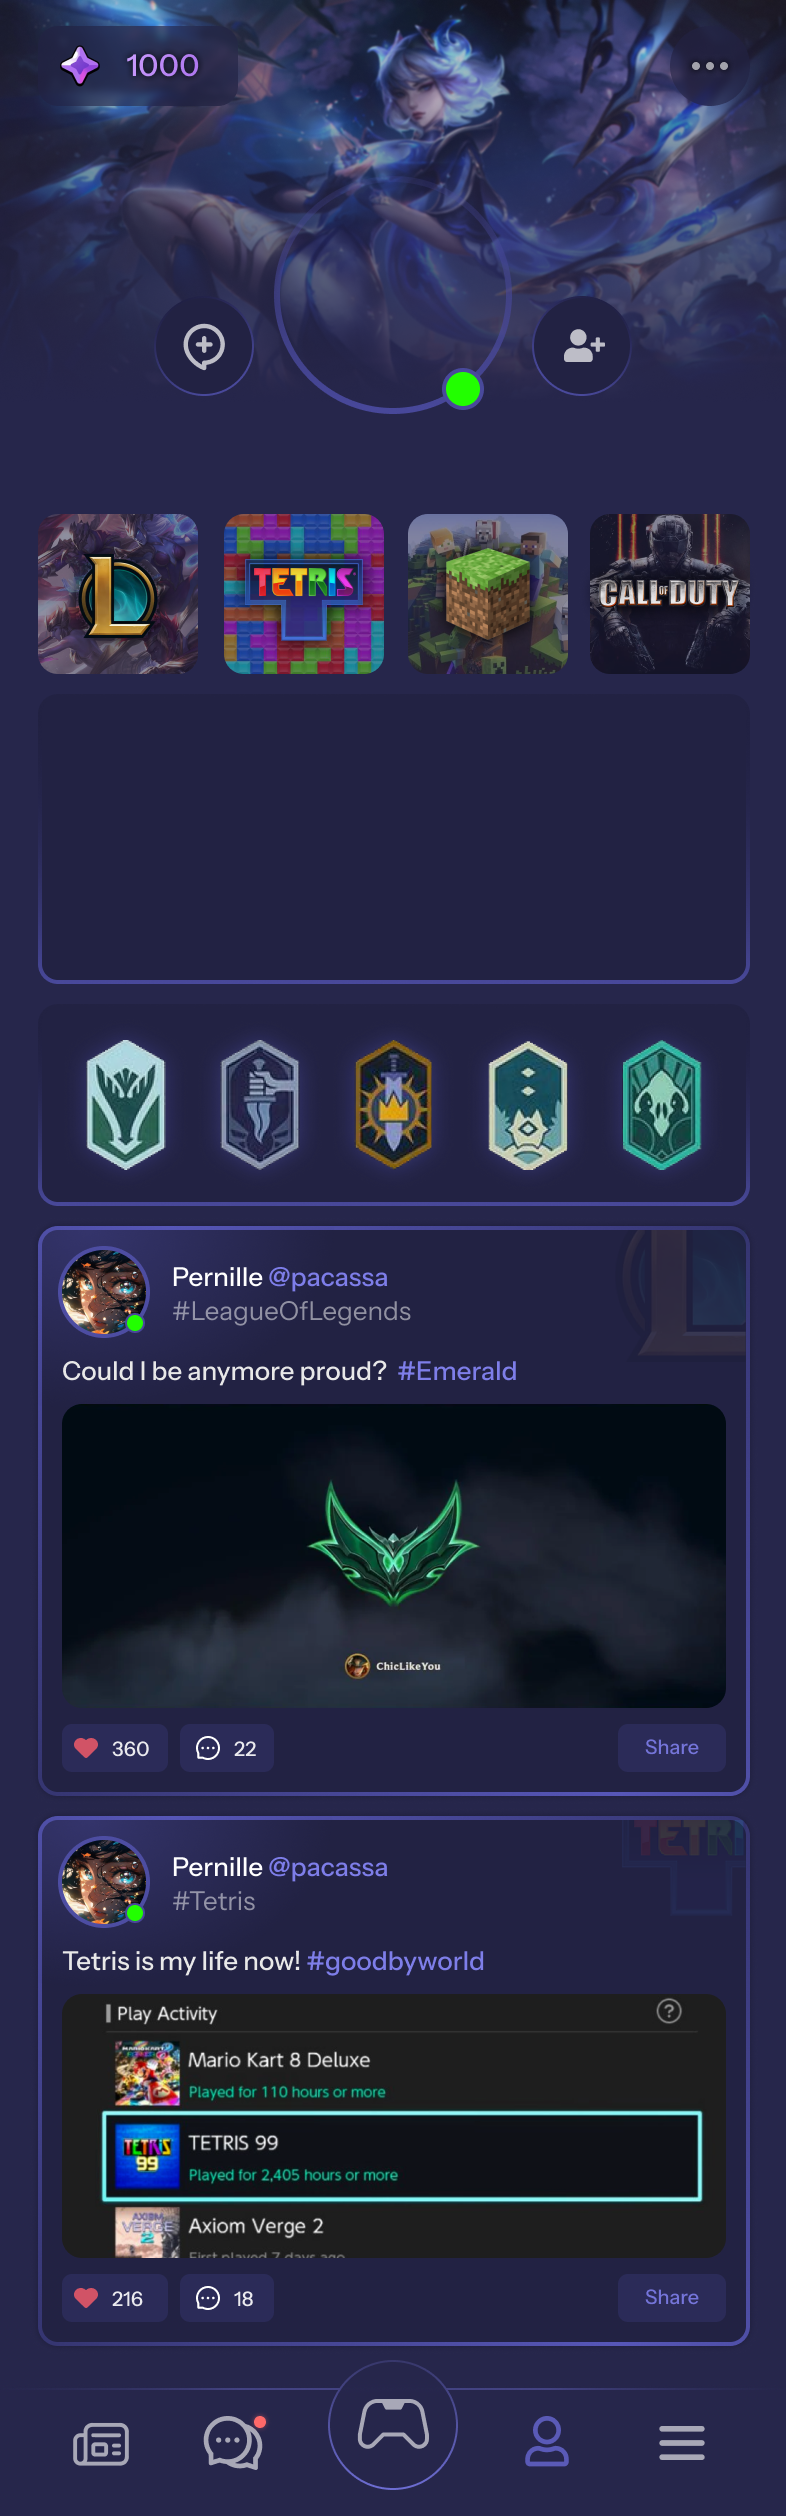
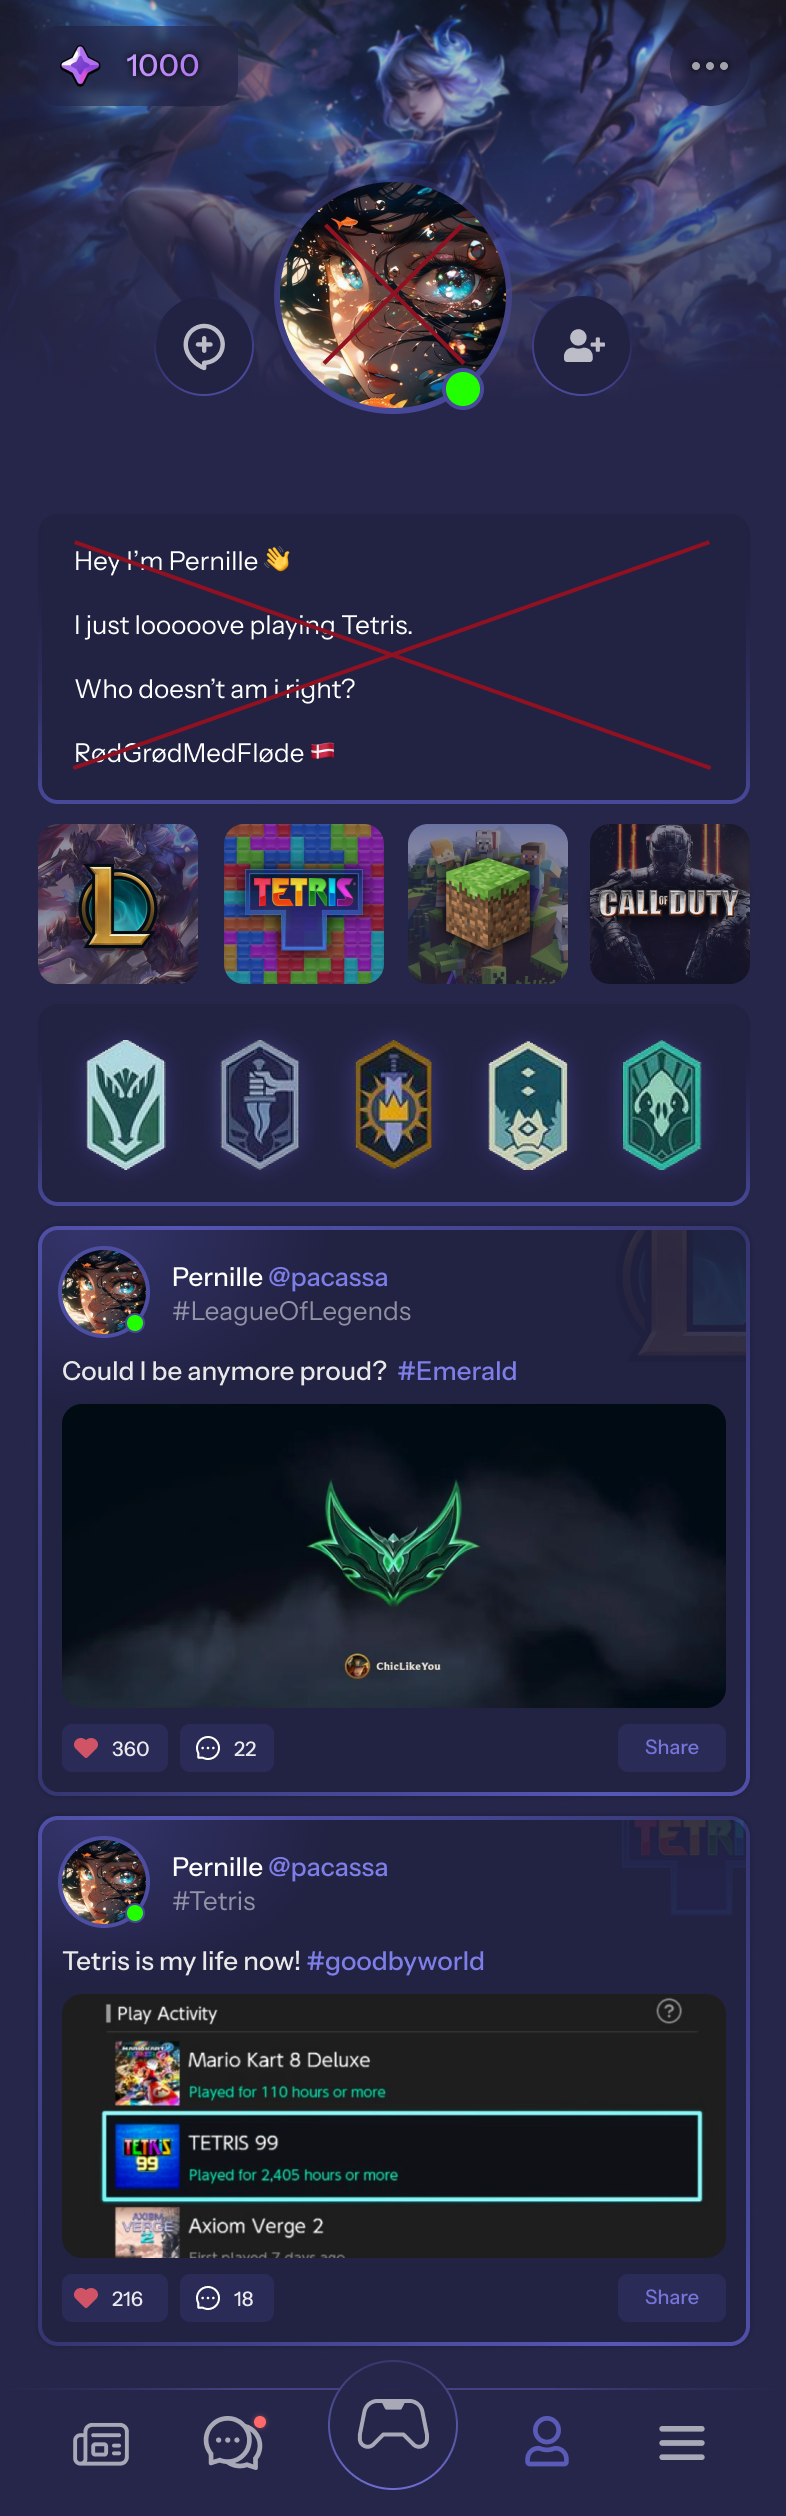
Username bliver vist rigtigt inde på profile og kan ændres

Changed region(s): [[0.0305, 0.062, 0.9466, 0.403], [0.5191, 0.31, 0.9771, 0.403], [0.9466, 0.279, 0.9771, 0.31]]

diff --git a/views/pages/profile-customize-script.js b/views/pages/profile-customize-script.js
@@ -1,0 +1,55 @@
+document.addEventListener("DOMContentLoaded", function () {
+    const profileImage = document.getElementById("profileImage");
+    const uploadProfileImage = document.getElementById("uploadProfileImage");
+
+    const bannerImage = document.getElementById("bannerImage");
+    const uploadBannerImage = document.getElementById("uploadBannerImage");
+
+    // Når brugeren vælger et nyt profilbillede
+    uploadProfileImage.addEventListener("change", function () {
+        const file = this.files[0];
+        if (file) {
+            const reader = new FileReader();
+            reader.onload = function (e) {
+                profileImage.src = e.target.result;
+            };
+            reader.readAsDataURL(file); // Laver billedet om til data-URL
+        }
+    });
+
+    // Når brugeren vælger et nyt bannerbillede
+    uploadBannerImage.addEventListener("change", function () {
+        const file = this.files[0];
+        if (file) {
+            const reader = new FileReader();
+            reader.onload = function (e) {
+                bannerImage.src = e.target.result;
+            };
+            reader.readAsDataURL(file);
+        }
+    });
+
+    const username = localStorage.getItem('loggedInUser');
+
+    if (username) {
+
+        const nameDiv = document.getElementById('display-name');
+        const tagDiv = document.getElementById('display-tag');
+
+        // Sæt brugernavn og tag
+        if (nameDiv) {
+            nameDiv.textContent = username;
+        }
+
+        if (tagDiv) {
+            tagDiv.textContent = `@${username}1425`;
+        }
+    }
+});
+
+function saveProfileChanges() {
+    const username = document.getElementById('display-name').textContent;
+
+    // Gem i localStorage
+    localStorage.setItem('loggedInUser', username);
+}

diff --git a/views/pages/profile-customize.html b/views/pages/profile-customize.html
@@ -7,6 +7,8 @@
     <link rel="stylesheet" href="style.css">
 </head>
 <body>
+    <script src="profile-customize-script.js"></script>
+
     <div class="phone">
         <div class="content">
           <img src="../Images/Change profile.png" alt="Terms" style="display:block; width:100%; height:auto;">
@@ -29,15 +31,14 @@
           <input type="file" id="uploadBannerImage" accept="image/*" style="display: none;" />
           <img onclick="document.getElementById('uploadBannerImage').click()" src="../Images/profile-banner.png" alt="Profile Banner" id="bannerImage" class="profile-banner" style="top: 555px; right: -60px;"/>
 
-          <div class="text" contenteditable="true" style="top: 319px; right: -5px;">Pernille</div>
+          <div class="text" id="display-name" contenteditable="true" style="top: 319px; right: -5px;">Pernille</div>
 
-          <div class="text" contenteditable="true" style="top: 409px; right: -5px;">pacassa</div>
+          <div class="text" id="display-tag" contenteditable="true" style="top: 409px; right: -5px;">pacassa</div>
 
           <div class="bio" contenteditable="true" style="top: 705px; right: -112.5px;">pacassa</div>
           
-          <button class="my-button" onclick="window.location.href='profile.html';" style="top: 879px; right: -25px; width: 220px; height: 60px;"></button>
+          <button class="my-button" onclick="saveProfileChanges(); window.location.href='profile.html';" style="top: 879px; right: -25px; width: 220px; height: 60px;"></button>
         </div>
       </div>
-    <script src="code.js"></script>
 </body>
 </html>

diff --git a/views/pages/profile.html b/views/pages/profile.html
@@ -7,9 +7,25 @@
     <link rel="stylesheet" href="style.css">
 </head>
 <body>
+    <script src="profile-script.js"></script>
+
     <div class="phone">
         <div class="content">
           <img src="../Images/Profile3.png" alt="Terms" style="display:block; width:100%; height:auto;">
+
+          <h2 id="profile-name" style="
+              position: absolute;
+              top: 16.5%;
+              left: 50%;
+              transform: translateX(-50%);
+              font-weight: normal;
+              width: 80%;
+              text-align: center;
+              color: white;
+              font-size: 17px;
+              z-index: 3;
+              font-family: Arial, sans-serif;">
+          </h2>
 
           <div class="menubar-container">
             <img src="../Images/menubar.png" alt="Menubar" class="menubar-image">       
@@ -21,6 +37,5 @@
           <button class="my-button" onclick="window.location.href='profile-customize.html';" style="top: 32px; right: -6px; padding: 22px;"></button>
         </div>
       </div>
-    <script src="code.js"></script>
 </body>
 </html>

diff --git a/views/pages/profile-script.js b/views/pages/profile-script.js
@@ -1,0 +1,13 @@
+document.addEventListener("DOMContentLoaded", function () {
+    // Hent brugernavnet fra localStorage
+    const username = localStorage.getItem('loggedInUser');
+    console.log("Brugernavn fundet:", username);
+
+    // Hvis brugernavn findes, vis det
+    if (username) {
+        const welcomeEl = document.getElementById("profile-name");
+        welcomeEl.innerHTML = `
+        <span style="color:white;">${username}</span> 
+        <span style="color:#7E7EE9;">@${username}1425</span>`;
+    }
+});

diff --git a/views/pages/createaccount_login.js b/views/pages/createaccount_login.js
@@ -25,6 +25,7 @@ document.addEventListener("DOMContentLoaded", function () {
         }).then(response => {
             // Hvis serveren svarer OK (statuskode 200), går vi videre til "profile.html"
             if (response.ok) {
+                localStorage.setItem('loggedInUser', username); // Gem bruger-navnet lokalt til profil-siden
                 window.location.href = "profile.html";
             } else {
                 // Hvis login mislykkes (fx forkert kode), viser vi en fejlbesked
